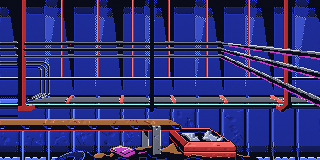
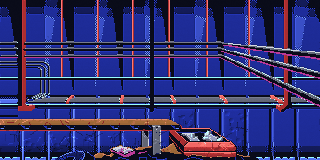
Pass 5: identical ship in both ship-yard pictures, ship-yard floor worn artificial; add docs/ART_PRINCIPLES.md for all later acts
Claude-Session: https://claude.ai/code/session_01KMMpWo1pAxVCtPqbSi1RBM

diff --git a/tools/paint/restyle.py b/tools/paint/restyle.py
@@ -141,7 +141,7 @@ def classify(lab, comp, n, zones, rows, height=190, top=10):
     return info
 
 
-def restyle(path, rows=160, top=10, height=190, seed=3, light=0.07, edge=0.12, grain=0.3, texture=0.012, erase=(), volume=0.26, bands=5, colors=112, donor=None, zones=None, return_class=False):
+def restyle(path, rows=160, top=10, height=190, seed=3, light=0.07, edge=0.12, grain=0.3, texture=0.012, erase=(), volume=0.26, bands=5, colors=112, donor=None, zones=None, return_class=False, palette_from=None):
     idx = load_indices(path, top, height)
     lab = dedither(idx)
     if donor is not None and erase:
@@ -221,48 +221,43 @@ def restyle(path, rows=160, top=10, height=190, seed=3, light=0.07, edge=0.12, g
     out = out * k[..., None]
     out[..., 0] *= 1 + 0.05 * lit_total
     out[..., 2] *= 1 - 0.05 * lit_total
-    # worn regions are beaten up rather than washed smooth: dings, scratches and a little grime, with the straight edges left alone
-    rngw = np.random.default_rng(seed + 11)
-    for c in range(n):
-        if info[c][0] != "worn":
+    # worn regions are beaten up rather than washed smooth: dings, scratches and grime, with the straight edges left alone.
+    # The marks come from a fixed pattern tied to the position in the picture (not to the order of the regions), so the same
+    # object looks identical in every room it appears in (e.g. the ship in both ship-yard screens).
+    worn_f = (class_map == 3).astype(np.float32)
+    worn_in = (box_blur(worn_f, 1) > 0.99) & (lum(base) > 28)       # inside worn regions, off the dark outlines
+    rngw = np.random.default_rng(20261108)
+    n_d, n_s, n_g = int(h * w / 105), int(h * w / 60), int(h * w / 330)
+    for _ in range(n_d):                                             # dents: dark upper-left, lit lower-right inside the dent
+        cx_, cy_ = int(rngw.integers(0, w)), int(rngw.integers(0, h))
+        r = float(rngw.uniform(1.8, 3.6))
+        if not worn_in[cy_, cx_]:
             continue
-        m = comp == c
-        cnt = int(m.sum())
-        if cnt < 120 or lab[m][0] == 0:
+        for yy_ in range(max(0, cy_ - 4), min(h, cy_ + 5)):
+            for xx_ in range(max(0, cx_ - 4), min(w, cx_ + 5)):
+                dx_, dy_ = (xx_ - cx_) / r, (yy_ - cy_) / (r * 0.8)
+                d2 = dx_ * dx_ + dy_ * dy_
+                if d2 < 1.0 and worn_in[yy_, xx_]:
+                    out[yy_, xx_] *= 1 + 0.42 * (dx_ + dy_) * 0.7071 * (1 - 0.3 * d2)
+    for _ in range(n_s):                                             # scratches
+        sx, sy = int(rngw.integers(0, w)), int(rngw.integers(0, h))
+        ang, ln = float(rngw.uniform(0, 3.1416)), int(rngw.integers(4, 12))
+        k_ = 1.32 if rngw.random() < 0.5 else 0.7
+        if not worn_in[sy, sx]:
             continue
-        ys_, xs_ = np.nonzero(m)
-        inner = box_blur(m.astype(np.float32), 1) > 0.99           # keep marks off the outline
-        iy, ix = np.nonzero(inner)
-        if len(ix) < 20:
+        for t_ in range(ln):
+            xx_, yy_ = int(sx + np.cos(ang) * t_), int(sy + np.sin(ang) * t_)
+            if 0 <= xx_ < w and 0 <= yy_ < h and worn_in[yy_, xx_]:
+                out[yy_, xx_] *= k_
+    for _ in range(n_g):                                             # grime runs: short darker vertical streaks
+        gx_, gy_ = int(rngw.integers(0, w)), int(rngw.integers(0, h))
+        ln = int(rngw.integers(4, 12))
+        if not worn_in[gy_, gx_]:
             continue
-        for _ in range(min(28, 1 + cnt // 130)):                    # dents: dark upper-left, lit lower-right inside the dent
-            j = int(rngw.integers(0, len(ix)))
-            cx_, cy_ = ix[j], iy[j]
-            r = float(rngw.uniform(1.8, 3.6))
-            x0_, x1_ = int(max(0, cx_ - 4)), int(min(w, cx_ + 5))
-            y0_, y1_ = int(max(0, cy_ - 4)), int(min(h, cy_ + 5))
-            for yy_ in range(y0_, y1_):
-                for xx_ in range(x0_, x1_):
-                    dx_, dy_ = (xx_ - cx_) / r, (yy_ - cy_) / (r * 0.8)
-                    d2 = dx_ * dx_ + dy_ * dy_
-                    if d2 < 1.0 and inner[yy_, xx_]:
-                        out[yy_, xx_] *= 1 + 0.42 * (dx_ + dy_) * 0.7071 * (1 - 0.3 * d2)
-        for _ in range(min(34, 1 + cnt // 100)):                    # scratches
-            j = int(rngw.integers(0, len(ix)))
-            ang = float(rngw.uniform(0, 3.1416))
-            ln = int(rngw.integers(4, 12))
-            k_ = 1.32 if rngw.random() < 0.5 else 0.7
-            for t_ in range(ln):
-                xx_, yy_ = int(ix[j] + np.cos(ang) * t_), int(iy[j] + np.sin(ang) * t_)
-                if 0 <= xx_ < w and 0 <= yy_ < h and inner[yy_, xx_]:
-                    out[yy_, xx_] *= k_
-        for _ in range(min(10, cnt // 300)):                        # grime runs: short darker vertical streaks
-            j = int(rngw.integers(0, len(ix)))
-            ln = int(rngw.integers(4, 12))
-            for t_ in range(ln):
-                yy_ = iy[j] + t_
-                if 0 <= yy_ < h and inner[yy_, ix[j]]:
-                    out[yy_, ix[j]] *= 0.88
+        for t_ in range(ln):
+            yy_ = gy_ + t_
+            if 0 <= yy_ < h and worn_in[yy_, gx_]:
+                out[yy_, gx_] *= 0.88
     # edge light between neighbouring shapes
     L = lum(base)
     def shifted(arr, dy, dx):
@@ -283,7 +278,11 @@ def restyle(path, rows=160, top=10, height=190, seed=3, light=0.07, edge=0.12, g
     out = out * (1 + (rng.random((h, w, 1)) - 0.5) * 2 * texture)
     out = out + rng.normal(0, grain, (h, w, 1))
     img = Image.fromarray(np.clip(out, 0, 255).astype(np.uint8), "RGB")
-    img = img.quantize(colors=colors, method=Image.Quantize.MEDIANCUT, dither=Image.Dither.NONE).convert("RGB")
+    if palette_from is not None:
+        # share one colour palette with a sibling picture, so the same object gets exactly the same colours in both
+        img = img.quantize(palette=palette_from, dither=Image.Dither.NONE).convert("RGB")
+    else:
+        img = img.quantize(colors=colors, method=Image.Quantize.MEDIANCUT, dither=Image.Dither.NONE).convert("RGB")
     return (img, class_map) if return_class else img
 
 

diff --git a/tools/paint/build_act1.py b/tools/paint/build_act1.py
@@ -25,8 +25,8 @@ ZONES = {
     "crane_cabin": {"flat": [FULL + ("flat", 0.05)]},
     "rail_walk": {"flat": [(72, 10, 232, 160, "cyl_v", 0.30), FULL + ("flat", 0.05)]},
     "rat_lair": {"worn": [(150, 100, 200, 135), (250, 55, 275, 108)]},
-    "mallard_bay": {"flat": [(190, 10, 320, 50, "flat", 0.05)], "worn": [(90, 80, 285, 155), (160, 22, 205, 58), (165, 140, 235, 182), (28, 72, 85, 125)]},
-    "mallard_bay_l": {"flat": [(190, 10, 320, 50, "flat", 0.05)], "worn": [(90, 80, 285, 155), (160, 22, 205, 58), (165, 140, 235, 182), (28, 72, 85, 125)]},
+    "mallard_bay": {"flat": [(190, 10, 320, 50, "flat", 0.05)], "worn": [(90, 80, 285, 155), (160, 22, 205, 58), (165, 140, 235, 182), (28, 72, 85, 125), FLOOR]},
+    "mallard_bay_l": {"flat": [(190, 10, 320, 50, "flat", 0.05)], "worn": [(90, 80, 285, 155), (160, 22, 205, 58), (165, 140, 235, 182), (28, 72, 85, 125), FLOOR]},
     "cockpit": {"flat": [FULL + ("flat", 0.05)], "organic": [(105, 118, 190, 200), (0, 95, 78, 195)]},
 }
 OUT = "../../assets/backgrounds_act1_restyle/"   # staging folder: moved into assets/backgrounds when the rooms are rewired
@@ -59,10 +59,25 @@ def main():
             print("missing reference", p)
             continue
         donor = REF + "s022.png" if name == "mallard_bay_l" else None
-        img, cmap = restyle(p, erase=boxes, donor=donor, zones=ZONES.get(name), return_class=True)
+        pal = None
+        if name == "mallard_bay_l":          # same palette as the other ship-yard picture
+            pal = Image.open(OUT + "mallard_bay.png").convert("RGB").quantize(colors=112, method=Image.Quantize.MEDIANCUT, dither=Image.Dither.NONE)
+        img, cmap = restyle(p, erase=boxes, donor=donor, zones=ZONES.get(name), return_class=True, palette_from=pal)
         img.save(OUT + name + ".png")
         CLASSES[name] = cmap
         done.append(name)
+    # the two ship-yard pictures show the same place: take everything from the first one and use the second one's own pixels only
+    # where the two source screens really differ (the ladder, the cart, Roger), so the ship has identical dents and rust in both
+    if "mallard_bay" in CLASSES and "mallard_bay_l" in CLASSES:
+        import numpy as np
+        from restyle import load_indices, box_blur
+        ia, ib = load_indices(REF + "s022.png"), load_indices(REF + "s028.png")
+        ys = np.minimum(((np.arange(160) + 0.5) * 190 / 160).astype(int), 189)
+        real = (ia != ib)[ys]
+        mask = box_blur(real.astype(np.float32), 4) > 0.02
+        A, B = np.asarray(Image.open(OUT + "mallard_bay.png").convert("RGB")), np.asarray(Image.open(OUT + "mallard_bay_l.png").convert("RGB"))
+        Image.fromarray(np.where(mask[..., None], B, A)).save(OUT + "mallard_bay_l.png")
+        CLASSES["mallard_bay_l"] = np.where(mask, CLASSES["mallard_bay_l"], CLASSES["mallard_bay"])
     print(len(done), "backgrounds:", " ".join(done))
     if len(sys.argv) > 1:
         cols = 2

diff --git a/docs/ART_PRINCIPLES.md b/docs/ART_PRINCIPLES.md
@@ -1,0 +1,61 @@
+# Art principles (agreed with the project owner; apply to every act)
+
+Status: living document. Written during Act 1; to be finalised at the end of the project. Every later act must follow it.
+
+## 1. Source and fidelity
+- Each room is rebuilt from its **original screen** (the Sierra Chest screenshots): same objects, positions, colours, relations
+  and perspective (target: at least 80% faithful). Free interpretation from the generated script is not allowed in the picture.
+- Style target: the **Lucasfilm Games look** (Indiana Jones and the Last Crusade, VGA): smooth painted shading, no dithering,
+  rounded volume on worn things, strong colour moods per scene (at least 80% emulation).
+- The reference screenshots are private files. They stay out of the repository (`tools/paint/ref/` is git-ignored).
+  Anything derived from them is for private use only.
+- Figures (Roger, NPCs) are **painted out of the backgrounds** and drawn separately. Roger wears his **original grey jumpsuit with
+  magenta sleeves and a red belt**, at about 21% of the picture height.
+
+## 2. The three surface classes (the central rule)
+Every region of every picture is classified before it is shaded:
+| Class | Meaning | Treatment | Colour in the overview |
+|---|---|---|---|
+| **Organic** | rock, junk piles, slime, rust, people; things grown or heaped | rounded volume, lit from the top left, irregular | green |
+| **Artificial** | structured, pristine: walls, floors of a clean room, panels, consoles, drive bays, pipes | flat shading, crisp straight edges, thin highlights; tubes and drums get a **cylinder gradient** | blue |
+| **Worn artificial** | built as structured things, now beaten up by years of use: crashed ships, old machines, containers, battered paneled floors | **beaten up, not washed smooth**: keep the straight lines, add dents (dark upper-left, lit lower-right), scratches and grime streaks; only about 40% of the organic rounding | orange |
+
+Rules of thumb:
+- Brown (rust, rubble) and green (slime) regions are always organic.
+- A large, almost rectangular region is artificial unless a zone says otherwise.
+- A paneled floor in a wrecked place is **worn artificial**; a floor in a clean interior is artificial.
+- When unsure, write the zone down in the room's `ZONES` entry and show the classification overlay to the owner.
+
+## 3. Consistency
+- The same object looks **identical** in every room where it appears (same dents, rust, colours). Technique: paint it once, or share
+  the palette and composite only the real differences (see `build_act1.py`, ship yard).
+- Marks (dents, scratches, grime) come from a **fixed pattern tied to picture position**, never from the order of regions.
+- One palette per picture (112 colours, no dither); pictures that show the same place share a palette.
+
+## 4. Interface and layout
+- 640x480 window, fullscreen on Linux. Picture 320x160 shown at 2x (older rooms are 320x144 and sit at the top).
+- Speech in the black strip on top (Roger yellow); cyan sentence line; green verb grid in five columns; magenta inventory with scroll arrows.
+- Verbs: Push, Pull, Give, Open, Close, Look, Walk to, Pick up, What is, Use, Turn on, Turn off, Talk to, Travel.
+  Talk to and Travel are greyed out unless something in the room responds.
+- Pixel font: VT323.
+
+## 5. Gameplay and story
+- The generated act scripts are the main source for scenes and tone; the walkthrough fills the puzzle gaps; the points list
+  (`data/points.json`, 738) must stay exactly reachable.
+- Classic Sierra deaths (unique title, short text, painted picture) and manual save/restore.
+- Humour: dry and atmospheric, close to the Lucasfilm style; keep the jokes, play them straight.
+- The underwear puzzle from the generated script was dropped in Act 1 (not in the original). The Thermoweave underwear in Acts 2 and 4
+  comes from the original game and the points list.
+
+## 6. Process per act
+1. Collect the original screens for the act; map them to rooms; list objects the puzzles need that the originals do not show.
+2. Restyle with `restyle.py`; write the zone classification; produce the **original | redo | classification** overview and get approval.
+3. Fix, room by room, on the owner's corrections (classification first, then look).
+4. Wire the rooms into the game: art, hotspots, room graph, puzzles; extend the self-test so the act scores exactly its points.
+5. Paint the puzzle objects the originals do not show (same principles); then animation, death pictures, script rewrite, sound.
+6. Commit and push after every step; overviews go to the owner as PDFs.
+
+## 7. Where things live
+- `tools/paint/restyle.py` restyling engine; `build_act1.py` zones and per-room settings (copy for each act);
+  `solid.py` / `paint.py` tools for objects the originals do not show; `deaths.py` death pictures.
+- `docs/STYLE_ANALYSIS.md` analysis of the Lucasfilm reference frames.
